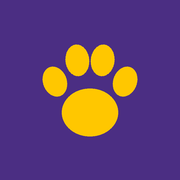
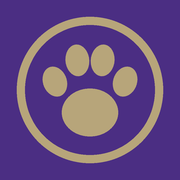
UW look: always light, official UW colors, purple header with a gold line
Feedback: "the colour theme looks AI, those aren't the Husky colours, it's too dark; take
example of the UW pages."
- Always light like washington.edu (no more following the phone's dark mode).
- UW's official digital palette (washington.edu/brand): Spirit Purple #4b2e83 and Husky Purple
  #32006e for the header, buttons, links and active tabs; Husky Gold #b7a57a for the line under
  the header, bars under titles and gold buttons; #e8e3d3 and Heritage Gold #85754d for soft
  highlights. The bright yellow is gone (logo, iPhone icon, emails, badges).
- Open Sans for text and bold condensed headings, like UW's site; a short gold bar under page
  titles; purple section titles; warm light-gold section dividers.
- Landing page: flat purple band with gold, white uppercase heading.
- Club facts (Joining, Dues...) read cleanly again: small label on top, answer below.

Changed region(s): [[0.0833, 0.0833, 0.9167, 0.9167], [0.2222, 0.2222, 0.7778, 0.5556], [0.3333, 0.4722, 0.6667, 0.7778]]

diff --git a/sportive/static/style.css b/sportive/static/style.css
@@ -1,47 +1,36 @@
 /* Sportive Circle @ UW
-   A calm, minimal design: a neutral canvas, thin lines instead of boxes, and UW purple only
-   for the one main action and the active tab. Sport emoji carry the color. Light + dark. */
+   Looks like washington.edu: a white page, dark gray text, a Husky Purple header with a gold line, gold bars
+   under titles, bold condensed headings and Open Sans. Colors are UW's official digital palette
+   (washington.edu/brand): Husky Purple #32006e, Spirit Purple #4b2e83, Husky Gold #b7a57a (and #e8e3d3 on
+   the web), Heritage Gold #85754d. Always light, like UW's own pages. */
 
 /* ============================== Tokens ============================== */
 :root {
-  --purple: #4b2e83;           /* UW purple: main buttons, active tab */
-  --purple-strong: #32006e;
-  --gold: #b7a57a;             /* UW gold: rare highlights */
-  --spirit-gold: #ffc700;      /* UW Spirit Gold */
-  --accent: var(--purple);     /* text/icon accent (lighter in dark mode) */
-  --accent-soft: #f1edf8;
+  color-scheme: light;         /* form controls stay light, even when the phone is in dark mode */
+  --purple: #4b2e83;           /* Spirit Purple: header, main buttons, links, active tab */
+  --purple-strong: #32006e;    /* Husky Purple: hover and pressed */
+  --gold: #b7a57a;             /* Husky Gold: the line under the header, bars under titles */
+  --gold-light: #e8e3d3;       /* Husky Gold (web): soft highlights */
+  --gold-text: #85754d;        /* Heritage Gold: gold text that's readable on white */
+  --spirit-gold: #ffc700;      /* Spirit Gold: tiny accents only */
+  --accent: var(--purple);
+  --accent-soft: #f1edf8;      /* a whisper of purple for boxes that need attention */
 
   --bg: #ffffff;
-  --surface: #f7f7f9;          /* inputs, quiet panels */
-  --line: #e9e8ee;             /* hairlines */
-  --band: #eceaf1;             /* thick dividers between sections */
-  --tile: #f6f5f9;             /* one game in a list */
-  --text: #16141c;
-  --muted: #6e6a78;
-  --faint: #a09cab;
+  --surface: #f5f4f7;          /* inputs, quiet panels */
+  --line: #e2e0e7;             /* hairlines */
+  --band: #f3f0e8;             /* thick dividers between sections: a warm, light gold */
+  --tile: #faf9fb;             /* one game in a list */
+  --text: #262626;
+  --muted: #5d5b63;
+  --faint: #9a98a2;
 
   --success: #1f7a4a;
   --danger: #c0352b;
 
-  --radius: 12px;
-  --display: "Encode Sans Condensed", system-ui, -apple-system, "Segoe UI", sans-serif;
-  --font: system-ui, -apple-system, "Segoe UI", Roboto, "Helvetica Neue", sans-serif;
-}
-@media (prefers-color-scheme: dark) {
-  :root {
-    --accent: #b9a3e8;
-    --accent-soft: #221c30;
-    --bg: #0f0e13;
-    --surface: #1a1820;
-    --line: #2a2733;
-    --band: #1f1c27;
-    --tile: #17151d;
-    --text: #efedf4;
-    --muted: #a19cad;
-    --faint: #6d6878;
-    --success: #6fd49c;
-    --danger: #ff8a80;
-  }
+  --radius: 10px;
+  --display: "Encode Sans Condensed", "Arial Narrow", system-ui, sans-serif;
+  --font: "Open Sans", system-ui, -apple-system, "Segoe UI", Roboto, "Helvetica Neue", sans-serif;
 }
 
 /* ============================== Base ============================== */
@@ -57,7 +46,7 @@ body {
 a { color: var(--accent); text-decoration: none; }
 a:hover { text-decoration: underline; }
 h1, h2, h3 { line-height: 1.2; margin: 0 0 .5rem; }
-h1 { font-family: var(--display); font-weight: 800; font-size: 1.6rem; letter-spacing: -.01em; }
+h1 { font-family: var(--display); font-weight: 800; font-size: 1.6rem; letter-spacing: .005em; color: #1e1e1e; }
 h2 { font-size: 1.05rem; font-weight: 700; }
 h3 { font-size: .95rem; font-weight: 700; }
 p { margin: 0 0 .75rem; }
@@ -73,7 +62,9 @@ small { font-size: .82rem; }
 .icon { width: 24px; height: 24px; flex: none; }
 
 .page { max-width: 640px; margin: 0 auto; padding: 16px 16px 24px; }
-.page-title { font-size: 1.5rem; margin: 4px 0 14px; }
+.page-title { font-size: 1.6rem; margin: 6px 0 16px; }
+/* The UW touch: a short Husky Gold bar under page titles. */
+.page-title::after { content: ""; display: block; width: 44px; height: 4px; margin-top: 8px; background: var(--gold); }
 .place-tip { display: block; margin-top: 4px; font-size: .82rem; }
 .place-tip:empty { display: none; }
 .section-title { font-size: 1rem; font-weight: 700; margin: 26px 0 8px; }
@@ -83,7 +74,8 @@ small { font-size: .82rem; }
   border-radius: 0; background: none; }
 .page .band-title { margin: 22px -16px 10px; padding: 18px 16px 0; border-top: 10px solid var(--band); }
 /* Home: every section has a clear title. */
-.home-section-title { margin: 0 0 12px; font-size: 1.05rem; font-weight: 750; }
+.home-section-title { margin: 0 0 12px; font-family: var(--display); font-size: 1.2rem; font-weight: 800;
+  color: var(--purple-strong); }
 /* Each game in a list is its own tile, with space around it, so games never blur together. */
 .stack:has(> .event-card) { gap: 10px; }
 .stack > .event-card { padding: 14px; border: 1px solid var(--line); border-radius: var(--radius);
@@ -133,33 +125,34 @@ section.band > .section-title:first-child { margin-top: 0; }
 .stack { display: grid; }
 
 /* ============================== Top bar (phones) & logo ============================== */
-.topbar { position: sticky; top: 0; z-index: 30; background: var(--bg); border-bottom: 1px solid var(--line); }
-/* The Husky stripe: a thin purple-to-gold line along the very top of every page. */
-body::before { content: ""; position: fixed; top: 0; left: 0; right: 0; height: 3px; z-index: 40;
-  background: linear-gradient(90deg, var(--purple) 0 60%, var(--spirit-gold) 60% 100%); }
+/* Like washington.edu: a purple header with a Husky Gold line under it. */
+.topbar { position: sticky; top: 0; z-index: 30; background: var(--purple); border-bottom: 4px solid var(--gold); }
 .topbar-inner { max-width: 640px; margin: 0 auto; padding: 0 12px 0 16px; height: 56px;
   display: flex; align-items: center; justify-content: space-between; gap: 12px; }
-.brand { font-family: var(--display); font-weight: 900; font-size: 1.3rem; letter-spacing: -.01em;
+.brand { font-family: var(--display); font-weight: 800; font-size: 1.3rem; letter-spacing: .01em;
   color: var(--text); text-decoration: none; }
+.topbar .brand { color: #fff; }
+.topbar .brand-accent { color: var(--gold); }
 .brand { display: inline-flex; align-items: center; gap: 8px; }
 .brand img { width: 28px; height: 28px; flex: none; }
 .brand-accent { color: var(--accent); }
 .brand:hover { text-decoration: none; }
 .top-icons { display: flex; gap: 2px; }
 .top-icons a { position: relative; width: 40px; height: 40px; display: grid; place-items: center;
-  border-radius: 50%; color: var(--text); }
-.top-icons a:hover { background: var(--surface); text-decoration: none; }
+  border-radius: 50%; color: #fff; }
+.top-icons a:hover { background: rgb(255 255 255 / .14); text-decoration: none; }
 .top-icons .count-dot { position: absolute; top: 4px; right: 2px; }
 /* On narrow phones the icons need the room: show just the paw logo (4 icons below 370px, 5 for admins below 412px). */
 @media (max-width: 370px) { body.has-app-nav .topbar .brand > span { display: none; } }
 @media (max-width: 412px) { .topbar-inner.five-icons .brand > span { display: none; } }
 .nav { display: flex; align-items: center; gap: 16px; }
 .nav a, .nav .link-button { color: var(--text); font-weight: 600; font-size: .95rem; }
+.topbar .nav a, .topbar .nav .link-button { color: #fff; }
 .nav form { margin: 0; }
 .nav a { white-space: nowrap; }
 @media (max-width: 520px) { .nav .wide-only { display: none; } }
-.nav-cta { background: var(--purple); color: #fff !important; padding: 7px 14px; border-radius: 999px; }
-.nav-cta:hover { background: var(--purple-strong); text-decoration: none; }
+.nav-cta { background: var(--gold); color: var(--purple-strong) !important; padding: 7px 14px; border-radius: 6px; }
+.nav-cta:hover { background: var(--gold-light); text-decoration: none; }
 
 /* ============================== App navigation ==============================
    Phones & tablets: bottom tab bar.  Laptops (>= 1000px): left sidebar. Same sections, same order. */
@@ -178,8 +171,8 @@ body::before { content: ""; position: fixed; top: 0; left: 0; right: 0; height: 
 .tab:hover { text-decoration: none; color: var(--text); }
 .tab-icon { position: relative; display: grid; place-items: center; }
 .tab-icon .count-dot { position: absolute; top: -4px; right: -10px; }
-.tab.is-active { color: var(--text); }
-.tab.is-active .icon { stroke-width: 2.4; color: var(--accent); }
+.tab.is-active { color: var(--purple); }
+.tab.is-active .icon { stroke-width: 2.4; color: var(--purple); }
 .tab.is-active .tab-label { font-weight: 700; }
 .side-logout { margin: 0; }
 body.hide-tabs .appnav { display: none; }
@@ -238,15 +231,14 @@ body.hide-tabs { padding-bottom: 0; }
 /* chips & tags: quiet, neutral */
 .chip { display: inline-flex; align-items: center; gap: 6px; padding: 6px 12px; border-radius: 999px;
   background: var(--surface); color: var(--text); font-size: .88rem; border: 0; }
-.chip.is-on { background: var(--text); color: var(--bg); }
+.chip.is-on { background: var(--purple); color: #fff; }
 .badges { display: flex; flex-wrap: wrap; gap: 6px; margin-top: 6px; }
 .badge { display: inline-block; font-size: .72rem; font-weight: 600; padding: 2px 8px; border-radius: 6px;
   background: var(--surface); color: var(--muted); white-space: nowrap; }
 .badge-success { color: var(--success); }
 .badge-danger { color: var(--danger); }
 .badge-purple, .badge-club, .badge-level { color: var(--accent); }
-.badge-gold { color: #8a6d00; }
-@media (prefers-color-scheme: dark) { .badge-gold { color: var(--spirit-gold); } }
+.badge-gold { color: var(--gold-text); background: var(--gold-light); }
 .badge-muted { color: var(--muted); }
 .badge-verified { color: var(--success); }
 .going-pill, .done-pill { display: inline-flex; align-items: center; gap: 6px; font-weight: 600; color: var(--success); }
@@ -267,7 +259,7 @@ body.hide-tabs { padding-bottom: 0; }
 .home-tabs::-webkit-scrollbar, .tab-list::-webkit-scrollbar { display: none; }
 .home-tabs a, .tab-list button { padding: 12px 0; margin-bottom: -1px; border: 0; border-bottom: 2px solid transparent;
   background: none; color: var(--muted); font: 650 .95rem var(--font); cursor: pointer; white-space: nowrap; text-decoration: none; }
-.home-tabs a.is-on, .tab-list button.is-on { color: var(--text); border-bottom-color: var(--text); }
+.home-tabs a.is-on, .tab-list button.is-on { color: var(--purple); border-bottom-color: var(--purple); }
 .home-tabs a:hover { text-decoration: none; color: var(--text); }
 .tab-panel { outline: none; }
 
@@ -378,7 +370,7 @@ input::placeholder, textarea::placeholder { color: var(--muted); opacity: .85; }
   position: absolute; left: 0; top: 0; width: 1px; height: 1px; margin: 0; opacity: 0; pointer-events: none; }
 .chip-check span, .choice-pill span { display: inline-block; padding: 8px 13px; border-radius: 999px; cursor: pointer;
   background: var(--surface); border: 1px solid var(--line); font-size: .9rem; user-select: none; }
-.chip-check input:checked + span, .choice-pill input:checked + span { background: var(--text); border-color: var(--text); color: var(--bg); }
+.chip-check input:checked + span, .choice-pill input:checked + span { background: var(--purple); border-color: var(--purple); color: #fff; }
 .chip-check input:focus-visible + span, .choice-pill input:focus-visible + span { outline: 2px solid var(--accent); outline-offset: 2px; }
 .social-grid { display: grid; gap: 10px; grid-template-columns: repeat(auto-fill, minmax(200px, 1fr)); }
 .hint { margin: 0; font-size: .85rem; color: var(--muted); text-align: center; }
@@ -498,8 +490,7 @@ form[data-wizard] .form-step { display: none; }
 .showcase-pick { width: 20px; height: 20px; accent-color: var(--purple); flex: none; cursor: pointer; }
 .badge-tag { display: inline-block; margin-top: 3px; font-size: .64rem; font-weight: 700; letter-spacing: .03em;
   text-transform: uppercase; color: var(--muted); }
-.tag-og { color: #8a6d00; }
-@media (prefers-color-scheme: dark) { .tag-og { color: var(--spirit-gold); } }
+.tag-og { color: var(--gold-text); }
 .badge-count { font-weight: 500; font-size: .85rem; color: var(--muted); }
 .locker-bar { display: flex; justify-content: space-between; align-items: center; gap: 12px;
   position: sticky; top: 64px; z-index: 5; padding: 10px 14px; background: var(--bg); }
@@ -544,12 +535,12 @@ form[data-wizard] .form-step { display: none; }
 .waiting-box { display: grid; gap: 2px; padding: 12px; border-radius: 10px; background: var(--surface); }
 .how-to-join { padding: 12px 14px; border-radius: 10px; background: var(--accent-soft); margin-bottom: 14px; scroll-margin-top: 80px; }
 .how-to-join p { margin: 4px 0 0; white-space: pre-line; }
-.quick-facts { list-style: none; padding: 0; margin: 0; display: grid; grid-template-columns: 1fr 1fr; }
-.quick-facts li { display: grid; grid-template-columns: 28px 1fr; column-gap: 8px; align-items: center;
-  padding: 10px 0; border-bottom: 1px solid var(--line); }
-.quick-facts li span { grid-row: span 2; font-size: 1.1rem; text-align: center; }
-.quick-facts small { color: var(--muted); font-size: .75rem; }
-.quick-facts strong { font-size: .9rem; font-weight: 600; }
+/* Club facts: a small label on top, the answer under it, two per row. */
+.quick-facts { list-style: none; padding: 0; margin: 0; display: grid; grid-template-columns: 1fr 1fr; column-gap: 16px; }
+.quick-facts li { display: grid; gap: 1px; align-content: start; padding: 10px 0; border-bottom: 1px solid var(--line);
+  min-width: 0; overflow-wrap: anywhere; }
+.quick-facts small { color: var(--muted); font-size: .75rem; text-transform: uppercase; letter-spacing: .04em; font-weight: 600; }
+.quick-facts strong { font-size: .92rem; font-weight: 600; }
 .contact-list { list-style: none; padding: 0; margin: 0; display: grid; gap: 10px; }
 .contact-list li { display: flex; gap: 10px; align-items: center; overflow-wrap: anywhere; }
 .quiet-leave { margin: 20px 0 0; text-align: center; font-size: .88rem; }
@@ -624,22 +615,23 @@ form[data-wizard] .form-step { display: none; }
 .hero h1 { font-size: clamp(2rem, 7vw, 2.8rem); line-height: 1.05; }
 .hero-actions { display: flex; flex-wrap: wrap; gap: 10px; margin: 20px 0 10px; }
 /* Landing hero: UW purple with gold, the one big splash of color in the app. */
-.husky-hero { margin: 4px -16px 0; padding: 36px 20px 28px; color: #fff; border-radius: 0 0 22px 22px;
-  background: radial-gradient(120% 90% at 100% 0%, #6a4aa8 0%, transparent 60%), var(--purple); }
-.husky-hero .eyebrow { color: var(--spirit-gold); }
-.husky-hero .gold { color: var(--spirit-gold); }
+.husky-hero { margin: -16px -16px 0; padding: 36px 20px 28px; color: #fff; border-radius: 0;
+  background: var(--purple); border-bottom: 6px solid var(--gold); }
+.husky-hero .eyebrow { color: var(--gold); }
+.husky-hero h1 { color: #fff; text-transform: uppercase; letter-spacing: .01em; }
+.husky-hero .gold { color: var(--gold); }
 .husky-hero .lead { color: rgba(255, 255, 255, .85); }
-.btn-on-purple { background: var(--spirit-gold); color: #1f1235; }
-.btn-on-purple:hover { background: #ffd43b; }
+.btn-on-purple { background: var(--gold); color: var(--purple-strong); }
+.btn-on-purple:hover { background: var(--gold-light); }
 .btn-outline-light { background: transparent; color: #fff; box-shadow: inset 0 0 0 1.5px rgba(255, 255, 255, .6); }
 .btn-outline-light:hover { background: rgba(255, 255, 255, .1); }
-@media (min-width: 700px) { .husky-hero { margin: 8px 0 0; border-radius: 22px; padding: 44px 36px 34px; } }
+@media (min-width: 700px) { .husky-hero { margin: 8px 0 0; border-radius: 4px; padding: 44px 36px 34px; } }
 .how-strip { margin: 24px 0 8px; }
 .how-strip ol { list-style: none; padding: 0; margin: 0 0 10px; display: grid; grid-template-columns: repeat(3, 1fr); gap: 8px; }
 .how-strip li { display: grid; justify-items: center; text-align: center; gap: 2px; padding: 14px 6px;
   border-radius: var(--radius); background: var(--surface); }
 .how-strip li span { width: 28px; height: 28px; border-radius: 50%; display: grid; place-items: center;
-  background: var(--purple); color: var(--spirit-gold); font-weight: 800; margin-bottom: 4px; }
+  background: var(--purple); color: #fff; font-weight: 800; margin-bottom: 4px; }
 .how-strip strong { font-size: .92rem; }
 .how-strip small { color: var(--muted); font-size: .76rem; line-height: 1.25; }
 .features { display: grid; gap: 0; margin: 28px 0; }
@@ -658,7 +650,7 @@ form[data-wizard] .form-step { display: none; }
 .faq summary { font-weight: 600; }
 .faq details p { margin: 8px 0 0; color: var(--muted); }
 .how-cta { text-align: center; padding: 28px 0 8px; }
-.step-number { background: var(--purple); color: var(--spirit-gold); }
+.step-number { background: var(--purple); color: #fff; }
 .step, .step:hover { color: var(--text); text-decoration: none; }
 .how-cta p { margin-top: 14px; }
 /* Privacy & Terms */
@@ -717,7 +709,7 @@ details.card.fold { border: 0; border-top: 1px solid var(--line); border-bottom:
 .event-meta .rel { white-space: nowrap; }  /* keep "in 2 days" together when the date line wraps */
 /* The people who run Sportive Circle (admins): a small gold-on-purple label next to their name. */
 .team-pill { display: inline-flex; align-items: center; gap: 3px; padding: 2px 8px; border-radius: 999px;
-  background: var(--purple); color: var(--spirit-gold); font: 700 .72rem/1.4 var(--font); letter-spacing: .02em;
+  background: var(--purple); color: var(--gold-light); font: 700 .72rem/1.4 var(--font); letter-spacing: .02em;
   vertical-align: middle; white-space: nowrap; }
 h1 .team-pill { font-size: .78rem; margin-left: 4px; }
 .suggestion-body { white-space: pre-line; overflow-wrap: anywhere; }

diff --git a/sportive/templates/emails/message.html b/sportive/templates/emails/message.html
@@ -16,9 +16,9 @@
     <table role="presentation" width="100%" cellpadding="0" cellspacing="0"
            style="max-width:480px;background:#ffffff;border-radius:14px;overflow:hidden;font-family:-apple-system,BlinkMacSystemFont,'Segoe UI',Roboto,Helvetica,Arial,sans-serif;color:#1f1b2b;">
       <tr><td style="background:#4b2e83;padding:18px 24px;">
-        <span style="font-size:20px;font-weight:800;color:#ffffff;letter-spacing:-0.2px;">Sportive <span style="color:#ffc700;">Circle</span></span>
+        <span style="font-size:20px;font-weight:800;color:#ffffff;letter-spacing:-0.2px;">Sportive <span style="color:#b7a57a;">Circle</span></span>
       </td></tr>
-      <tr><td style="height:4px;line-height:4px;font-size:0;background:#ffc700;">&nbsp;</td></tr>
+      <tr><td style="height:4px;line-height:4px;font-size:0;background:#b7a57a;">&nbsp;</td></tr>
       <tr><td style="padding:28px 24px 8px;">
         <h1 style="margin:0 0 14px;font-size:22px;line-height:1.3;color:#32006e;">{{ heading }}</h1>
         {% for line in lines %}<p style="margin:0 0 14px;font-size:15px;line-height:1.55;color:#333333;">{{ line }}</p>{% endfor %}

diff --git a/sportive/templates/base.html b/sportive/templates/base.html
@@ -7,10 +7,11 @@
   <title>{% block title %}Home{% endblock %} · Sportive Circle</title>
   <link rel="preconnect" href="https://fonts.googleapis.com">
   <link rel="preconnect" href="https://fonts.gstatic.com" crossorigin>
-  <link rel="stylesheet" href="https://fonts.googleapis.com/css2?family=Encode+Sans+Condensed:wght@700;800;900&display=swap">
+  <link rel="stylesheet" href="https://fonts.googleapis.com/css2?family=Encode+Sans+Condensed:wght@700;800&family=Open+Sans:wght@400;600;700&display=swap">
   <link rel="stylesheet" href="{{ url_for('static', filename='style.css') }}">
   <link rel="icon" href="{{ url_for('static', filename='icon.svg') }}" type="image/svg+xml">
   <meta name="theme-color" content="#4b2e83">
+  <meta name="color-scheme" content="light only">
   <link rel="apple-touch-icon" href="{{ url_for('static', filename='apple-touch-icon.png') }}">
   <meta name="apple-mobile-web-app-title" content="Sportive Circle">
   {% block head %}{% endblock %}
